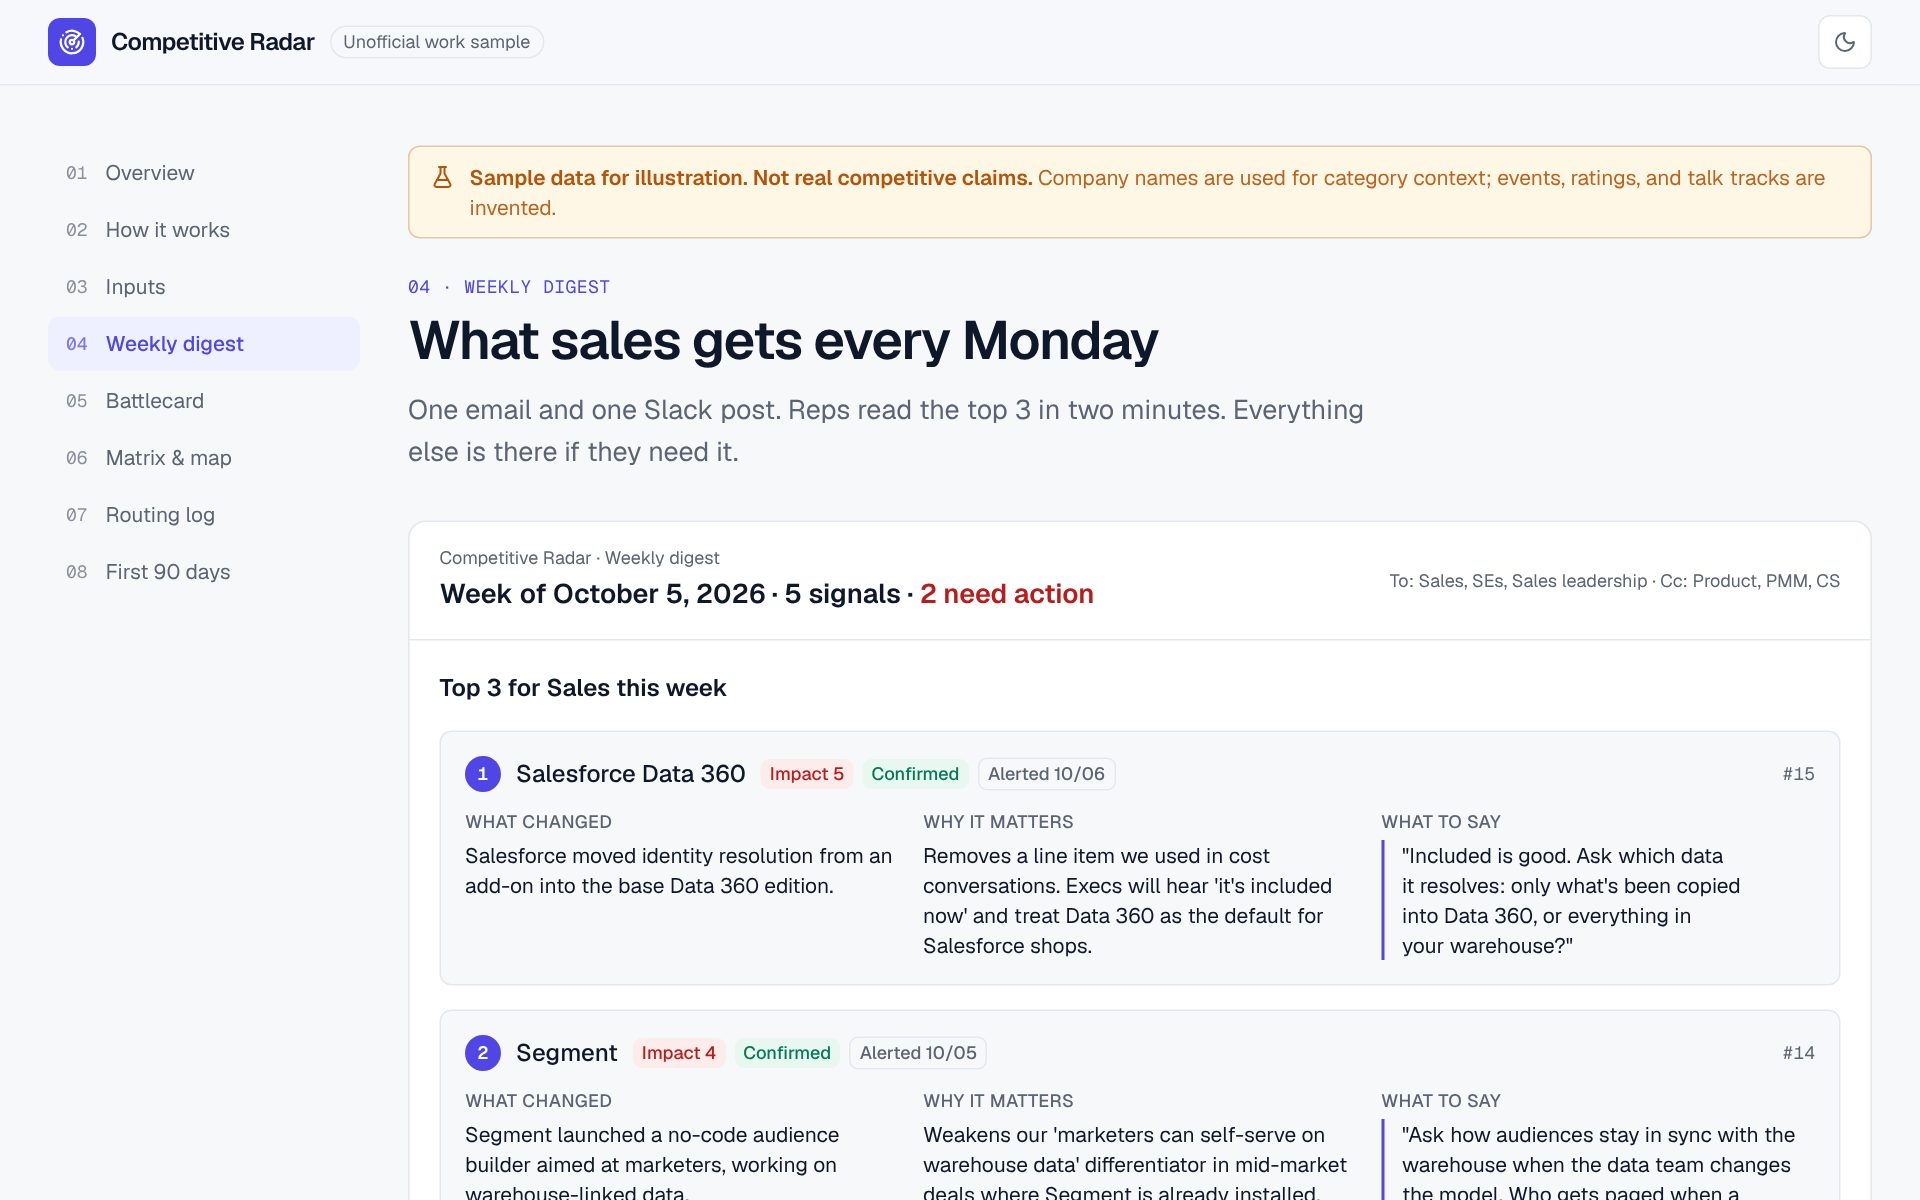
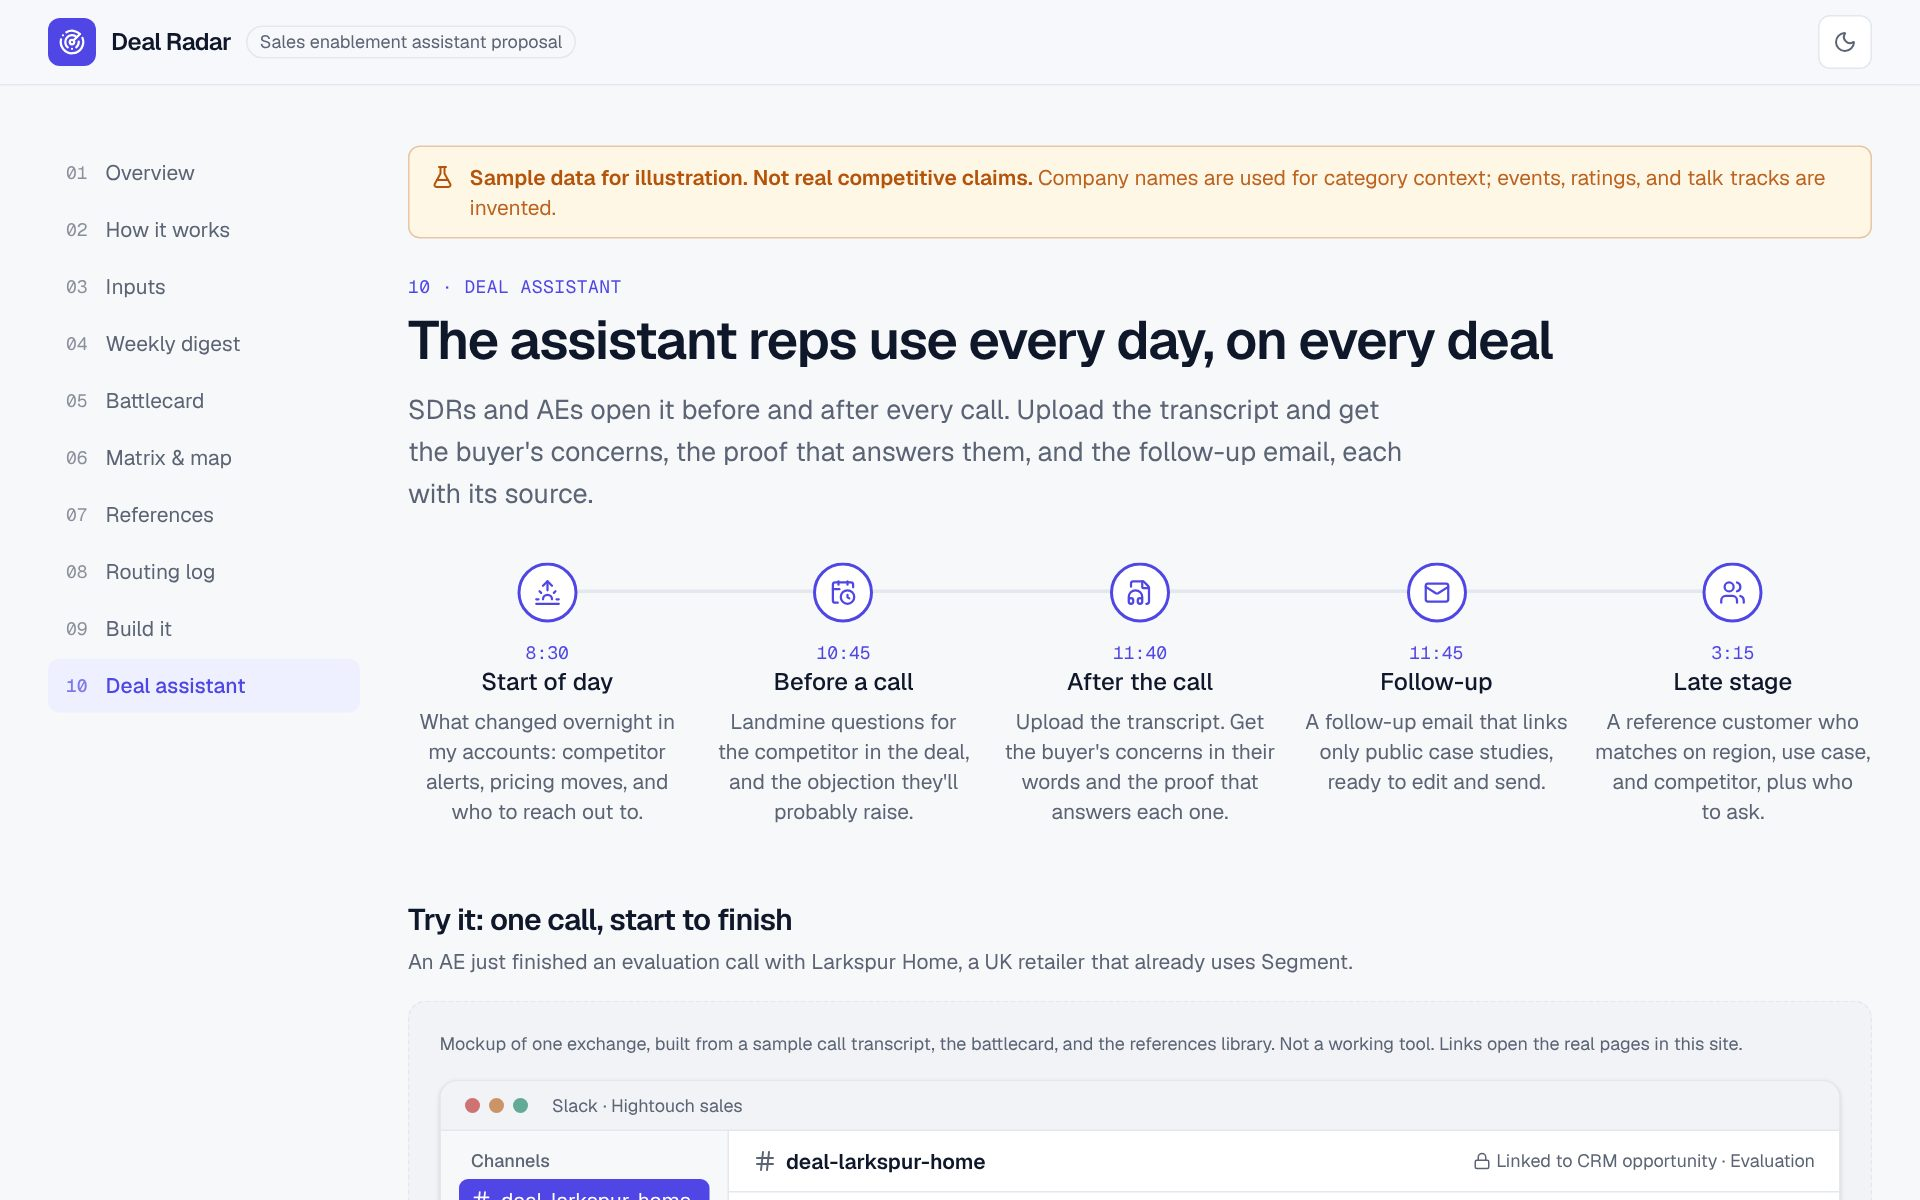
Update flagship to Deal Radar and tighten site copy
The Radar is now Deal Radar, a sales assistant proposal for SDRs and
AEs. The flagship card describes the transcript-to-follow-up assistant,
reference matching, and the internal-build plan, with a new screenshot
of the deal assistant page.

Copy pass across the site: removes em dashes and filler words like
'showcasing', 'optimized', 'crafted', and 'distilled'. Facts and numbers
are unchanged.

Claude-Session: https://claude.ai/code/session_014aixTEe6LkKoTSWSJfJqkv

diff --git a/lib/content.ts b/lib/content.ts
@@ -17,7 +17,7 @@ export const impactStats = [
     value: "+50%",
     label: "Site conversion rate",
     description:
-      "Owned and optimized Gymdesk's full marketing website — competitor, customer, case study, and feature pages.",
+      "Ran Gymdesk's whole marketing site, including the competitor, customer, case study, and feature pages.",
   },
   {
     value: "300+",
@@ -35,25 +35,28 @@ export const impactStats = [
     value: "1M",
     label: "Organic visitors",
     description:
-      "SEO-driven long-tail content strategy that delivered a million search visitors to AirDNA.co.",
+      "Long-tail SEO content that brought a million search visitors to AirDNA.co.",
   },
 ] as const;
 
 export const flagshipProject = {
-  title: "Competitive Radar for Hightouch",
+  title: "Deal Radar for Hightouch",
   href: "https://hightouch-radar.vercel.app/",
+  previewPath: "hightouch-radar.vercel.app/assistant",
   summary:
-    "How I'd run competitive intelligence for Hightouch's sales team, built as a working site instead of a slide deck.",
-  description:
-    "An always-on system that turns competitor changes into sales-ready intel every week. Eight pages cover the whole program: what gets tracked, how each change is scored and routed, the Monday digest reps get, a battlecard that updates itself, a comparison matrix, and my first 90 days. Behind it is a working script that spots changes on competitor pages and drafts signals with the Claude API, with a person reviewing every draft.",
-  highlights: [
-    "Weekly sales digest with the exact line to say",
-    "Before-and-after change detection on competitor pages",
-    "Battlecard that shows which signals updated it",
-    "AI drafting with human review, plus mystery-shop sales calls",
+    "A sales assistant I'd build for Hightouch's SDRs and AEs, proposed as a working site.",
+  description: [
+    "Reps ask it what to say next, from the first cold email to the renewal call. It answers from current competitive intel, battlecards, and a library of customer references and case studies, and it cites the source for every line.",
+    "On the deal assistant page, an AE uploads a call transcript and gets the buyer's concerns in their own words, the proof for each one, a matching reference customer, and a follow-up email to send. Weekly competitor tracking feeds it, a script drafts signals with the Claude API, and a person checks every draft. The site ends with how Hightouch could build it internally in 90 days.",
   ],
-  tags: ["Competitive intelligence", "Sales enablement", "AI tools"],
-  note: "Unofficial work sample with illustrative data.",
+  highlights: [
+    "Turns a call transcript into buyer concerns, proof, and a follow-up email",
+    "Matches reference customers on region, use case, and competitor",
+    "Weekly competitor digest with the exact line to say",
+    "Every answer cites its source, and a person checks every AI draft",
+  ],
+  tags: ["Sales enablement", "Competitive intelligence", "AI tools"],
+  note: "Proposal with sample data. Not affiliated with Hightouch.",
 } as const;
 
 export const workCategories = [
@@ -119,7 +122,7 @@ export const projects: Project[] = [
     assetType: "Reviews Page",
     href: "https://gymdesk.com/customers",
     notes:
-      "Page featuring customer quotes, reviews, and videos. Developed design and created all content (including videos).",
+      "Customer quotes, reviews, and videos on one page. I designed it and made all the content, including the videos.",
     category: "Web",
   },
   {
@@ -155,7 +158,7 @@ export const projects: Project[] = [
     assetType: "Website Messaging",
     href: "https://www.teloslabs.co/",
     notes:
-      "Crafted full site messaging and an on-page qualification flow for an AI automation agency to position the brand, sharpen the ICP, and convert visitors into discovery calls.",
+      "Wrote all the site messaging and an on-page qualification flow for an AI automation agency, to position the brand, narrow the ICP, and turn visitors into discovery calls.",
     category: "Web",
   },
   {
@@ -163,7 +166,7 @@ export const projects: Project[] = [
     assetType: "Sales One-Pager",
     href: "/files/telos-one-pager.pdf",
     notes:
-      "Sales enablement one-pager designed to generate leads and book discovery calls for an organizational assessment. Distilled a complex AI consulting offer into a concise, ROI-driven sales asset.",
+      "Sales one-pager built to generate leads and book discovery calls for an organizational assessment. It fits a complex AI consulting offer onto one page about ROI.",
     category: "Content",
   },
   {
@@ -186,7 +189,7 @@ export const services = [
   {
     title: "Product launches",
     description:
-      "Positioning, messaging, announcement content, and the sales & support enablement that makes a launch actually land.",
+      "Positioning, messaging, announcement content, and the sales and support enablement a launch needs to work.",
     icon: "rocket",
   },
   {

diff --git a/components/flagship.tsx b/components/flagship.tsx
@@ -18,7 +18,11 @@ export function Flagship() {
               </span>
               <h2 className="mt-4 text-3xl font-bold text-gray-900 md:text-4xl">{project.title}</h2>
               <p className="mt-3 text-lg text-gray-700">{project.summary}</p>
-              <p className="mt-4 text-sm leading-relaxed text-gray-600">{project.description}</p>
+              {project.description.map((paragraph) => (
+                <p key={paragraph} className="mt-4 text-sm leading-relaxed text-gray-600">
+                  {paragraph}
+                </p>
+              ))}
 
               <ul className="mt-5 space-y-2">
                 {project.highlights.map((item) => (
@@ -36,7 +40,7 @@ export function Flagship() {
                   rel="noopener noreferrer"
                   className="inline-flex items-center gap-1.5 rounded-full bg-gray-900 px-5 py-2.5 text-sm font-semibold text-white transition-colors hover:bg-gray-700"
                 >
-                  Explore the Radar
+                  Explore Deal Radar
                   <ArrowUpRight className="h-4 w-4" aria-hidden="true" />
                 </a>
                 <span className="text-xs text-gray-500">{project.note}</span>
@@ -61,16 +65,16 @@ export function Flagship() {
                 <span className="h-2.5 w-2.5 rounded-full bg-gray-300" />
                 <span className="h-2.5 w-2.5 rounded-full bg-gray-300" />
                 <span className="h-2.5 w-2.5 rounded-full bg-gray-300" />
-                <span className="ml-2 truncate text-xs text-gray-400">hightouch-radar.vercel.app/digest</span>
+                <span className="ml-2 truncate text-xs text-gray-400">{project.previewPath}</span>
               </span>
               <Image
                 src={radarPreview}
-                alt="The Competitive Radar weekly digest page, showing the top 3 competitor changes for sales with what changed, why it matters, and what to say."
+                alt="The Deal Radar deal assistant page, showing what a rep gets at each point in the day: start of day, before a call, after the call, follow-up, and late stage."
                 sizes="(min-width: 1024px) 540px, 100vw"
                 className="h-auto w-full transition-transform duration-300 group-hover:scale-[1.02]"
                 placeholder="blur"
               />
-              <span className="sr-only">Open Competitive Radar in a new tab</span>
+              <span className="sr-only">Open Deal Radar in a new tab</span>
             </a>
           </div>
         </article>

diff --git a/components/hero.tsx b/components/hero.tsx
@@ -44,9 +44,9 @@ export function Hero() {
             Hi, I&apos;m {personName} 👋
           </h1>
           <p className="max-w-xl text-xl font-light text-white/90 md:text-2xl">
-            I help companies deliver value to prospects and customers as
-            quickly as possible — through sharper messaging, better onboarding,
-            and content that earns trust.
+            I help prospects and customers see a product&apos;s value fast.
+            That means clear messaging, onboarding that works, and content
+            people trust.
           </p>
           <div className="mt-8 flex flex-wrap gap-3">
             <a

diff --git a/components/impact.tsx b/components/impact.tsx
@@ -9,8 +9,8 @@ export function Impact() {
             Impact by the numbers
           </h2>
           <p className="max-w-2xl text-lg text-gray-500">
-            Ten-plus years of product marketing, growth, and CMO work — here&apos;s
-            what it moved.
+            Ten-plus years of product marketing, growth, and CMO work, and what
+            it changed.
           </p>
         </div>
         <div className="grid grid-cols-1 gap-6 sm:grid-cols-2 lg:grid-cols-4">

diff --git a/lib/site.ts b/lib/site.ts
@@ -1,7 +1,7 @@
 export const siteName = "Launch with Mark";
 
 export const siteDescription =
-  "A curated portfolio hub showcasing high-impact product marketing campaigns and strategic results.";
+  "Mark Saldaña's product marketing portfolio: launches, onboarding, competitive intel, and the results behind them.";
 
 export const personName = "Mark Saldaña";
 

diff --git a/app/opengraph-image.tsx b/app/opengraph-image.tsx
@@ -1,6 +1,6 @@
 import { ImageResponse } from "next/og";
 
-export const alt = "Launch with Mark — Mark Saldaña";
+export const alt = "Launch with Mark, by Mark Saldaña";
 export const size = { width: 1200, height: 630 };
 export const contentType = "image/png";
 
